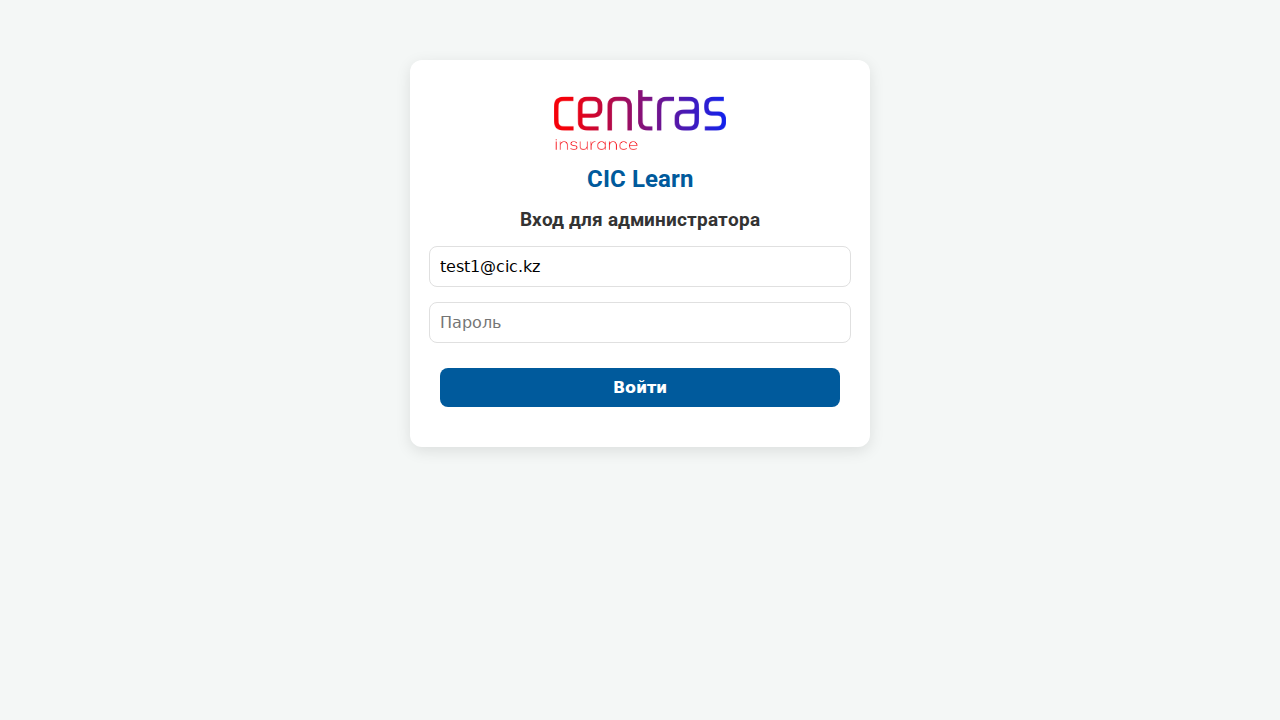
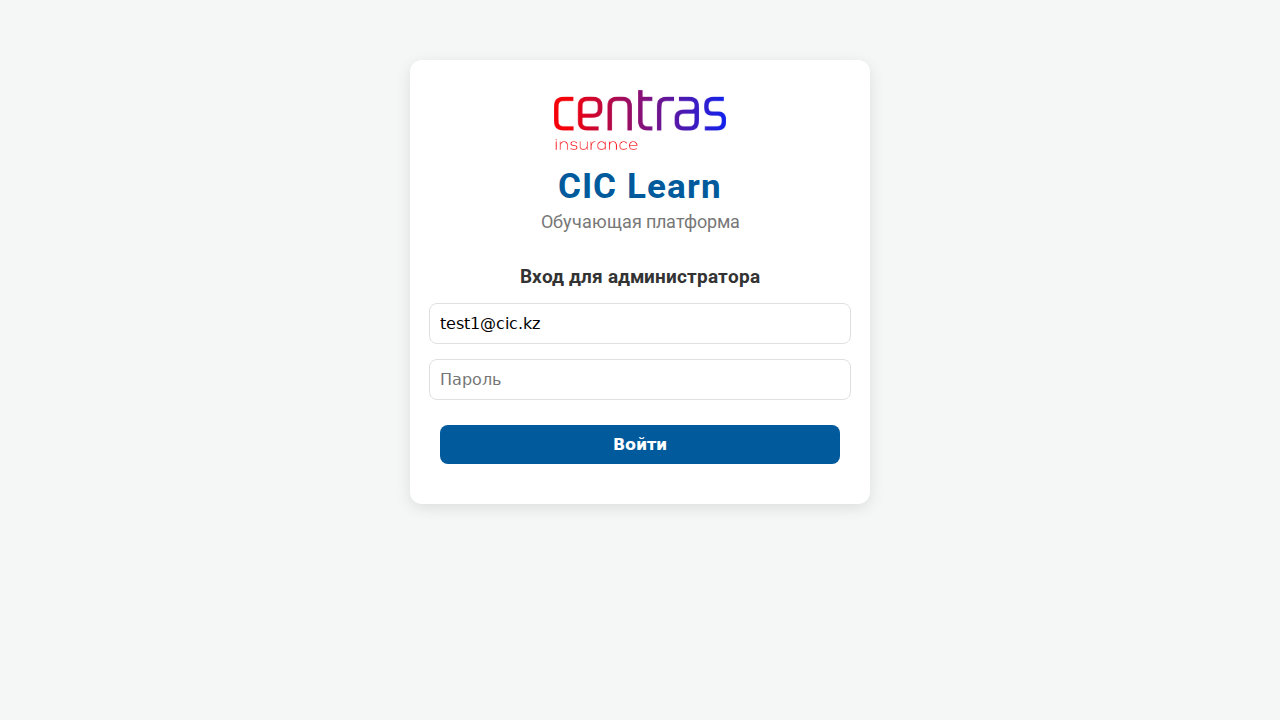
Fix blank screen on course resume, update branding, and refine AI content generation
- Fixed "Blank Screen" issue in `index.html` by ensuring `opacity: 1` is applied to the presentation container and adding robust checks for missing slide content.
- Implemented `loadCourses()` helper in `index.html` to correctly refresh course data and switch tabs after assignment.
- Updated `server/services/backgroundJobs.js` with a stricter AI prompt to generate exactly 10 slides based solely on source text.
- Applied new branding (Logo + "CIC Learn") to login screens in both `index.html` and `admin.html`.
- Verified progress restoration logic in `index.html` ensures users resume from their last visited slide.

Changed region(s): [[0.3438, 0.3361, 0.6562, 0.6417], [0.4062, 0.2139, 0.5938, 0.3361]]

diff --git a/server/services/backgroundJobs.js b/server/services/backgroundJobs.js
@@ -503,24 +503,33 @@ ${courseData.description}
                 summary: {
                     slides: [{
                         slide_title: "string (Заголовок слайда)",
-                        html_content: "string (HTML-контент слайда...)",
+                        html_content: "HTML контент слайда",
                         image_search_term: "string (1-2 слова на английском для поиска картинки на Pexels)"
                     }]
                 },
                 questions: [{ question: "string", options: ["string"], correct_option_index: 0 }]
             };
-            finalPrompt = `Задание: ${custom_prompt || 'Создай исчерпывающий учебный курс на основе текста.'}
+            finalPrompt = `Задание: Ты — профессиональный методолог страховой компании Centras Insurance (CIC). Твоя задача — создать обучающий курс СТРОГО на основе предоставленного ИСХОДНОГО ТЕКСТА.
 
 ИСХОДНЫЙ ТЕКСТ:
 ${courseData.description}
 
-ТРЕБОВАНИЯ К ФОРМАТУ ВЫВОДА:
-Обязательно верни результат в формате JSON, соответствующем этой структуре: ${JSON.stringify(outputFormat)}
+ТРЕБОВАНИЯ К КОНТЕНТУ:
+1.  **Объем:** Создай ровно 10 (десять) слайдов. Не больше, не меньше.
+2.  **Источник истины:** Использовать ТОЛЬКО информацию из исходного текста. Запрещено придумывать факты, добавлять внешнюю информацию или общие фразы, которых нет в документе. Если информации не хватает для 10 слайдов, декомпозируй сложные темы на подтемы, но не выдумывай.
+3.  **Структура:**
+    * Слайд 1: Титульный (Название программы/договора, Цели обучения).
+    * Слайды 2-9: Основная часть. Четко выдели: Условия страхования, Риски (что покрывается, что нет), Франшизы, Действия при страховом случае, Исключения.
+    * Слайд 10: Заключение и ключевые выводы.
+4.  **Формат слайда (HTML):**
+    * Используй теги <h2> для заголовков.
+    * Используй <ul> и <li> для списков (перечисление условий, рисков).
+    * Используй <strong> для выделения важных терминов (например, "Страховая сумма", "Франшиза").
+    * Текст должен быть лаконичным, тезисным (методологически правильным).
+5.  **Изображения:** Для каждого слайда подбери *image_search_term* (1-2 слова на английском), отражающий суть (e.g., "car accident", "contract signing", "medical help"), для поиска в фотобанке.
 
-КЛЮЧЕВЫЕ ТРЕБОВАНИЯ К КОНТЕНТУ:
-1.  **Презентация (summary):** Создай содержательную и ОЧЕНЬ информативную HTML-презентацию. Если в задании от пользователя не указано иное, сделай ровно 8 слайдов. Пользователь в своем задании может попросить изменить количество слайдов или объем контента — следуй его указаниям. В каждом слайде давай максимально подробные объяснения, приводи конкретные примеры, и раскрывай тему как можно полнее, чтобы контент был исчерпывающим и полезным. Активно используй теги <h2>, <p>, <ul>, <li>, <strong>.
-2.  **Тест (questions):** Массив "questions" должен содержать как минимум 5 вопросов для теста с 4 вариантами ответа каждый.
-3.  **Поиск картинок (image_search_term):** Для каждого слайда придумай простой поисковый запрос из 1-2 слов на английском языке для поиска релевантной фотографии на сайте Pexels.
+ТРЕБОВАНИЯ К ВЫВОДУ (JSON):
+Верни строго валидный JSON, соответствующий структуре: ${JSON.stringify(outputFormat)}
 `;
             console.log(`[Job ${jobId}] Generating full content with Gemini...`);
             const result = await model.generateContent(finalPrompt);

diff --git a/index.html b/index.html
@@ -849,10 +849,10 @@
     </div>
     <div id="auth-view" class="container">
         <div class="window">
-            <div class="window-header" style="flex-direction: column; gap: 10px;">
-                <img src="https://centras.kz/wp-content/uploads/2023/12/centras-insurance-col.png" alt="Centras Insurance" style="height: 60px;">
-                <h1 style="font-size: 1.5em; text-align: center;">Обучающая платформа CIC Learn</h1>
-                <h2 style="font-size: 1.2em; color: var(--text-color);">Вход в систему</h2>
+            <div class="window-header" style="display: flex; flex-direction: column; align-items: center; border-bottom: none; padding-bottom: 0;">
+                <img src="https://centras.kz/wp-content/uploads/2023/12/centras-insurance-col.png" alt="Centras Insurance" style="height: 60px; margin-bottom: 15px;">
+                <h1 style="font-size: 2.2em; margin: 0; color: var(--primary-color); font-weight: 800; letter-spacing: 1px;">CIC Learn</h1>
+                <p style="font-size: 1.1em; color: var(--text-light-color); margin-top: 5px; font-weight: 500;">Обучающая платформа</p>
             </div>
             <form id="auth-form" style="max-width: 400px; margin: 0 auto;">
                 <p style="text-align: center;">Пожалуйста, используйте выданные вам логин и пароль.</p>
@@ -1295,6 +1295,10 @@
             leaderboardContent.innerHTML = '<p style="color: var(--error-color);">Не удалось загрузить лидерборд.</p>';
         }
     }
+    async function loadCourses() {
+        await showMainMenu();
+    }
+
     async function showMainMenu() {
         appView.classList.remove('presentation-mode-active');
         stopTimeTracking();
@@ -1626,7 +1630,7 @@
         backToMenuBtn.classList.remove('hidden');
         backButtonAction = showMainMenu;
         try {
-            if (!currentCourse.summary || forceRegenerate) {
+            if (!currentCourse.summary || (Array.isArray(currentCourse.summary) && currentCourse.summary.length === 0) || forceRegenerate) {
                 const data = await fetchAuthenticated('/api/getCourseContent', {
                     method: 'POST',
                     headers: { 'Content-Type': 'application/json' },
@@ -1902,6 +1906,8 @@
                 secondsSinceLastUpdate += 30;
                 sendTimeUpdate(currentCourse.id, 30);
             }, 30000);
+
+            container.style.opacity = '1';
         } catch (error) {
             console.error('Не удалось загрузить или отобразить контент курса:', error);
             showToast('Ошибка при загрузке контента курса.', 'error');
@@ -2115,8 +2121,16 @@
 
                     showToast('Вы успешно записаны на курс!', 'success');
 
-                    // Refresh data and view
-                    await showMainMenu();
+                    // 1. Переключаем вкладку UI на "Назначенные"
+                    const assignedTabBtn = document.querySelector('.tab-btn[data-filter="assigned"]');
+                    if (assignedTabBtn) {
+                        document.querySelectorAll('.tab-btn').forEach(b => b.classList.remove('active'));
+                        assignedTabBtn.classList.add('active');
+                    }
+
+                    // 2. ПРИНУДИТЕЛЬНО перезагружаем список курсов с сервера
+                    // Это критично, так как локальный массив courses содержит устаревшие данные (статус "not_assigned")
+                    await loadCourses();
 
                 } catch (error) {
                     console.error('Failed to assign course:', error);

diff --git a/admin.html b/admin.html
@@ -206,8 +206,11 @@
     <div id="toast-container"></div>
     <div id="login-view" class="hidden">
         <div style="display: flex; flex-direction: column; align-items: center; gap: 15px; max-width: 400px; margin: 40px auto; padding: 30px; background: white; border-radius: 12px; box-shadow: 0 4px 15px rgba(0,0,0,0.1);">
-            <img src="https://centras.kz/wp-content/uploads/2023/12/centras-insurance-col.png" alt="Centras Insurance" style="height: 60px;">
-            <h1 style="font-size: 1.5em; text-align: center; margin: 0;">CIC Learn</h1>
+            <div class="window-header" style="display: flex; flex-direction: column; align-items: center; border-bottom: none; padding-bottom: 0;">
+                <img src="https://centras.kz/wp-content/uploads/2023/12/centras-insurance-col.png" alt="Centras Insurance" style="height: 60px; margin-bottom: 15px;">
+                <h1 style="font-size: 2.2em; margin: 0; color: var(--primary-color); font-weight: 800; letter-spacing: 1px;">CIC Learn</h1>
+                <p style="font-size: 1.1em; color: var(--text-light-color); margin-top: 5px; font-weight: 500;">Обучающая платформа</p>
+            </div>
             <h2 style="font-size: 1.2em; color: var(--text-color); margin: 0;">Вход для администратора</h2>
             <input type="email" id="admin-email" value="test1@cic.kz" placeholder="Email администратора" style="margin-bottom: 0;">
             <input type="password" id="admin-password" placeholder="Пароль" style="margin-bottom: 0;">

diff --git a/verification/verify_branding.py b/verification/verify_branding.py
@@ -1,29 +1,24 @@
 from playwright.sync_api import sync_playwright
+import os
 
-def verify_frontend():
+def verify_branding():
     with sync_playwright() as p:
         browser = p.chromium.launch(headless=True)
         page = browser.new_page()
 
-        # 1. Verify User Login Page Branding
-        print("Verifying User Login Page...")
-        page.goto("http://localhost:3002/index.html")
-        page.wait_for_selector("#auth-view")
+        # Verify User Login Page
+        page.goto('http://localhost:3002/index.html')
+        page.wait_for_selector('#auth-view')
+        page.screenshot(path='verification/user_login.png')
+        print('User login screenshot taken')
 
-        # Take screenshot of user login
-        page.screenshot(path="verification/user_login.png")
-        print("User login screenshot saved.")
-
-        # 2. Verify Admin Login Page Branding
-        print("Verifying Admin Login Page...")
-        page.goto("http://localhost:3002/admin.html")
-        page.wait_for_selector("#login-view")
-
-        # Take screenshot of admin login
-        page.screenshot(path="verification/admin_login.png")
-        print("Admin login screenshot saved.")
+        # Verify Admin Login Page
+        page.goto('http://localhost:3002/admin.html')
+        page.wait_for_selector('#login-view')
+        page.screenshot(path='verification/admin_login.png')
+        print('Admin login screenshot taken')
 
         browser.close()
 
-if __name__ == "__main__":
-    verify_frontend()
+if __name__ == '__main__':
+    verify_branding()
